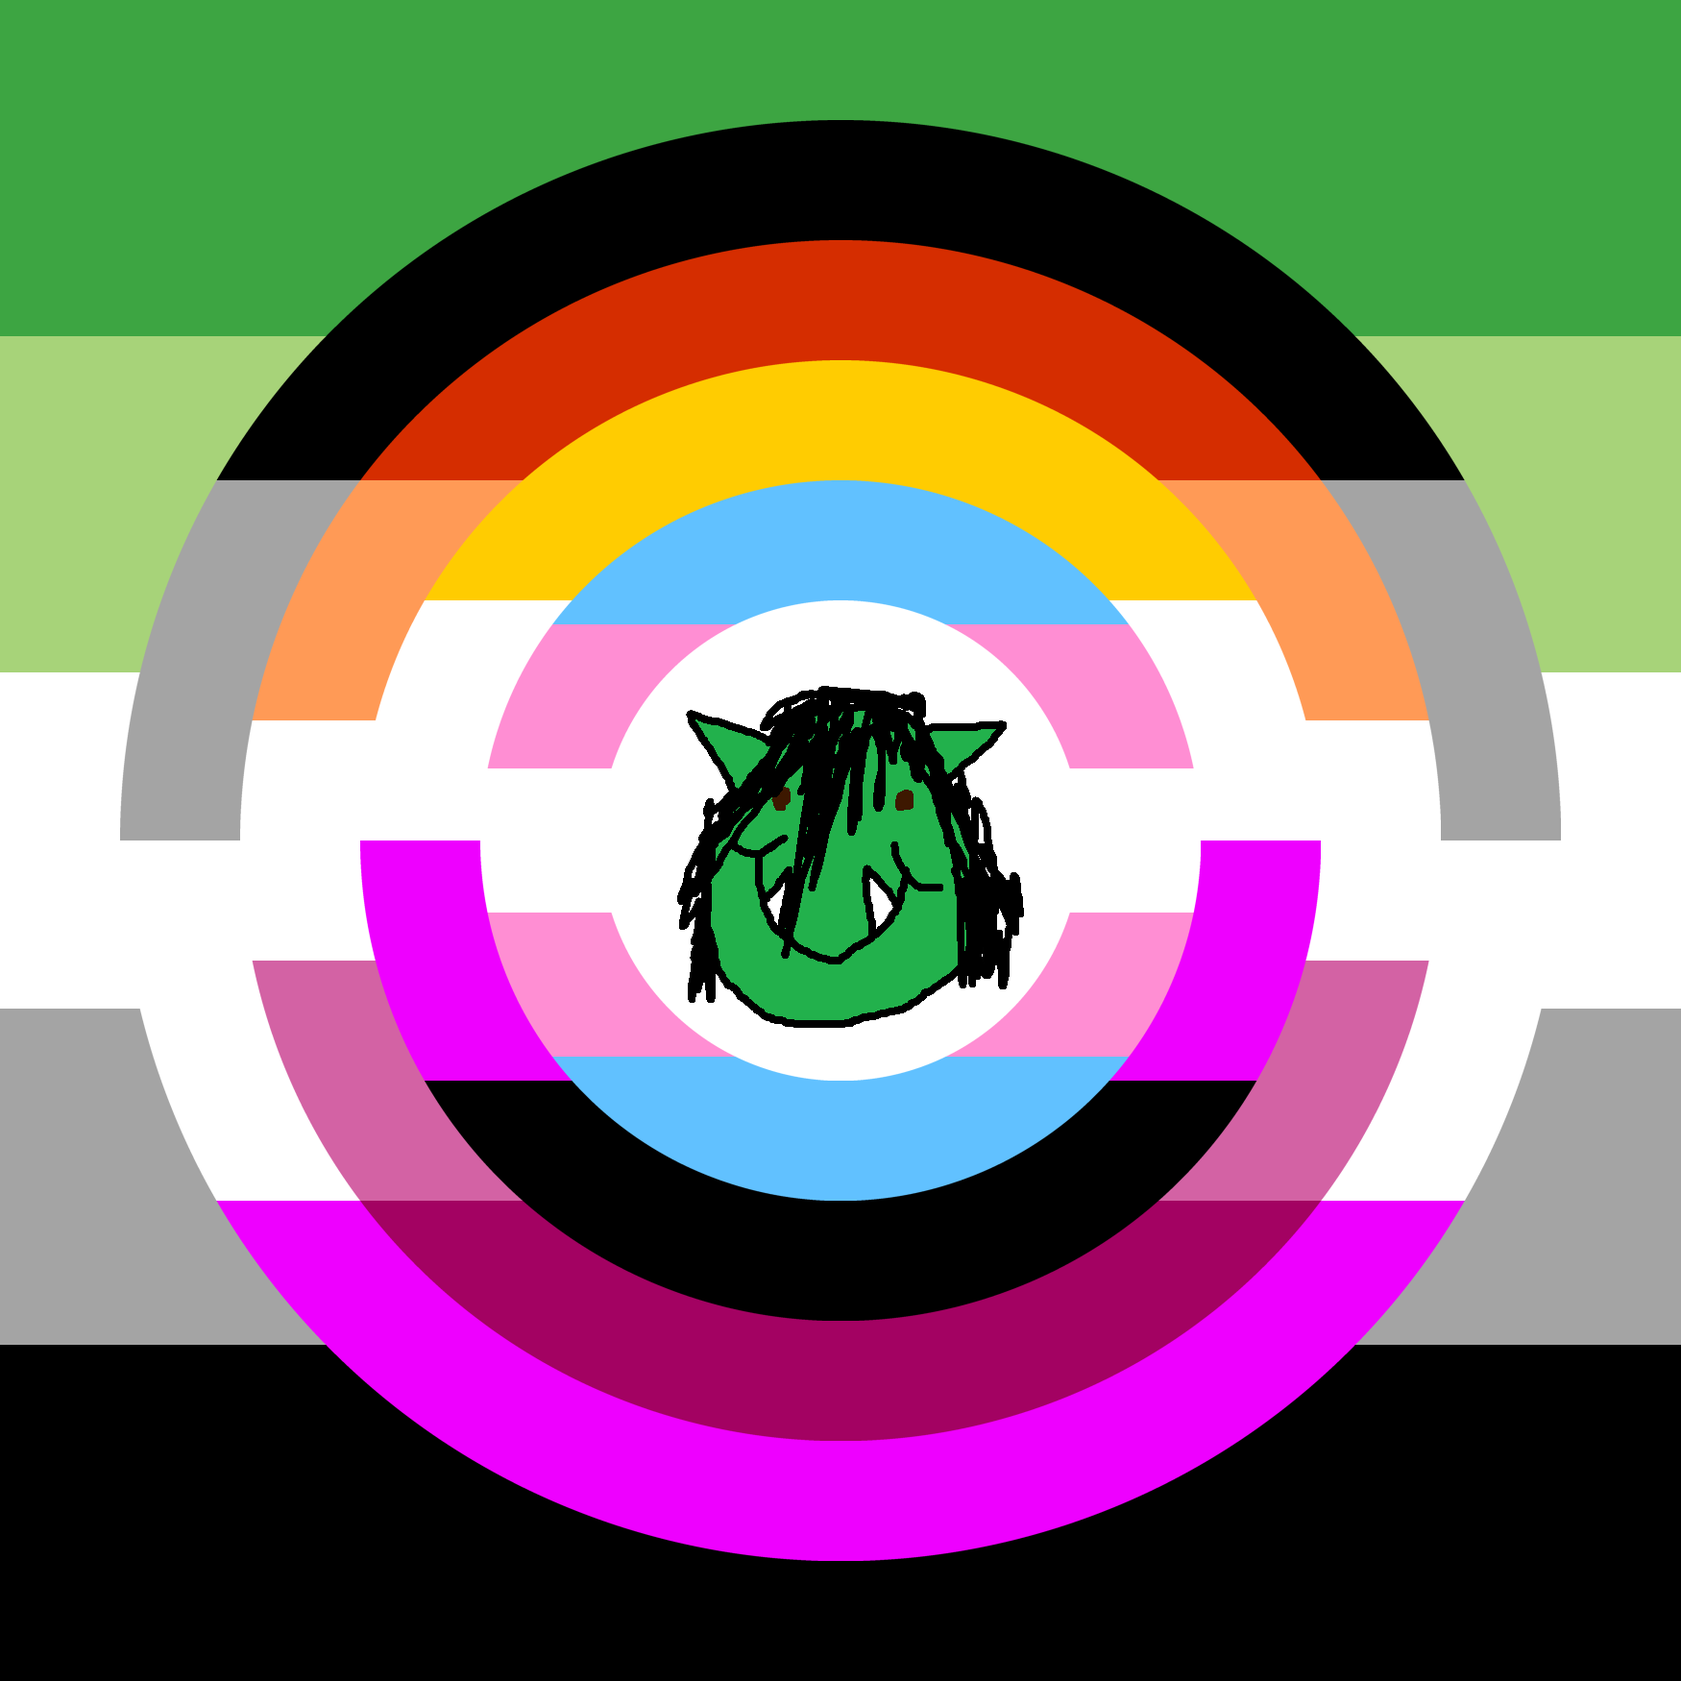
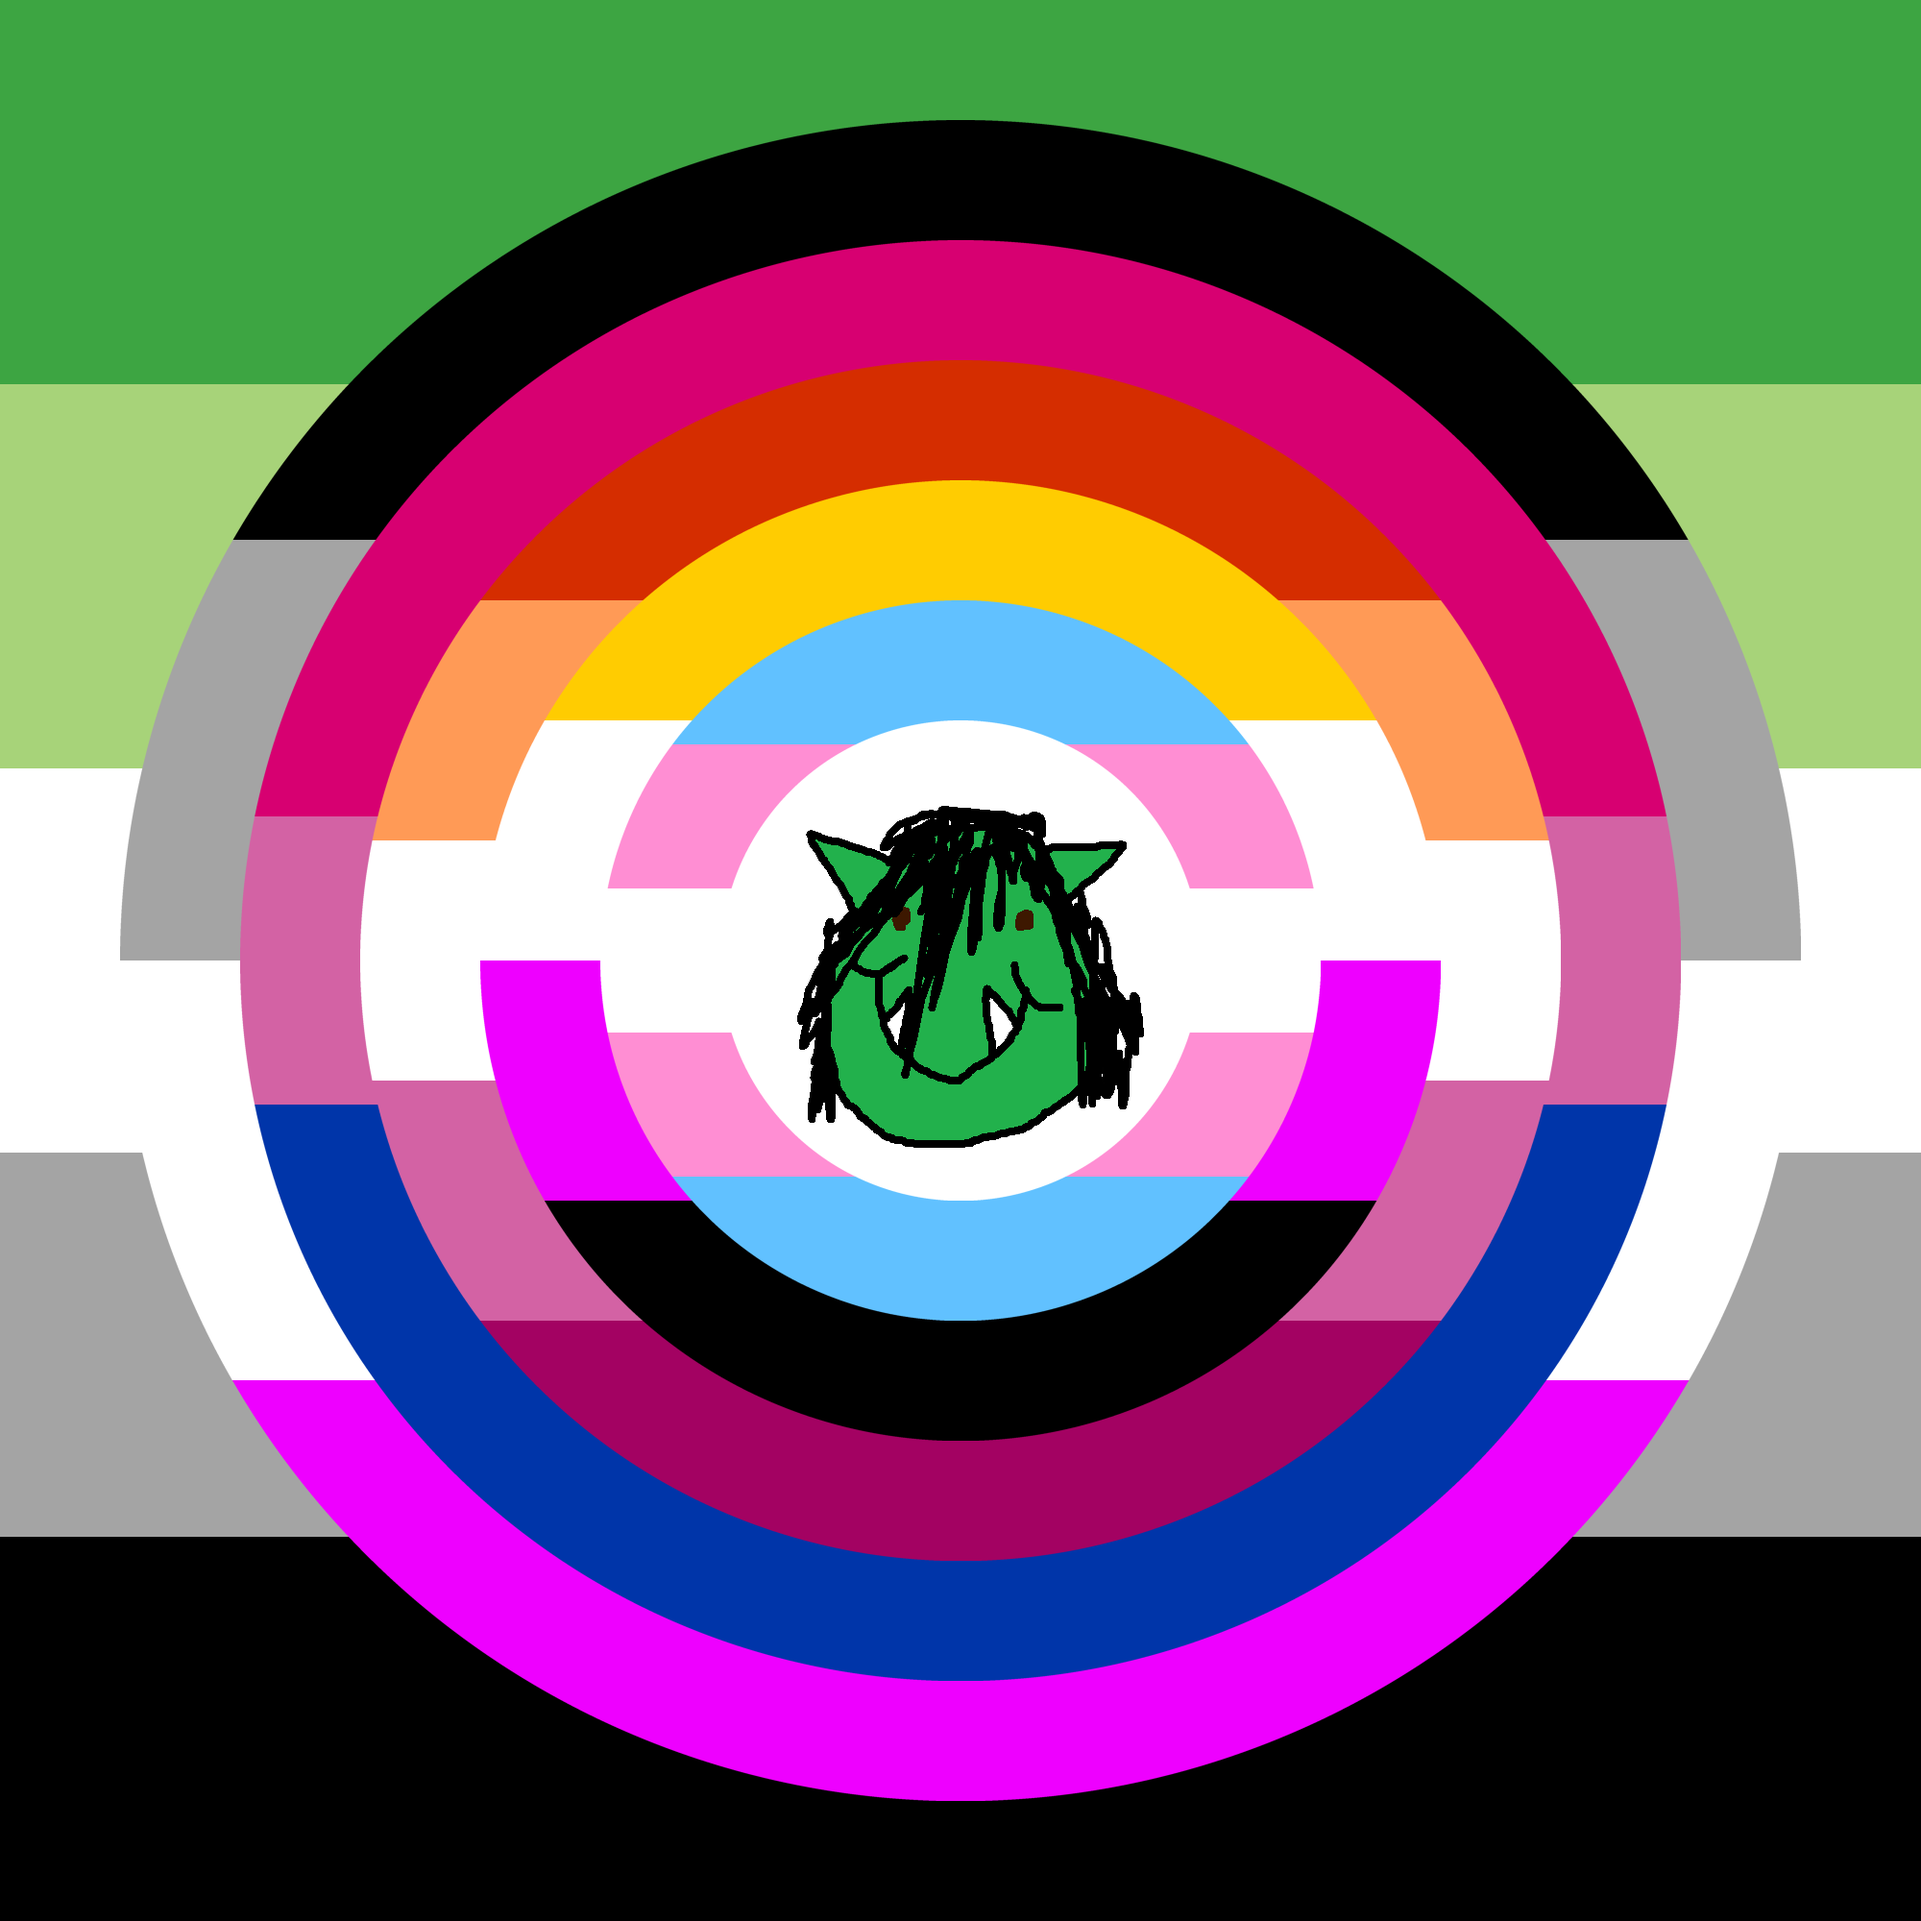
add bi flag

diff --git a/enpridener.py b/enpridener.py
@@ -14,6 +14,10 @@ flags = {
         "type": "hstripe",
         "colors": ['d52d00', 'ff9a56', 'ffffff', 'd362a4', 'a30262']
     }],
+    "bi": [{
+        "type": "hstripe",
+        "colors": ['d70071', 'd70071', 'd362a4', '0035a9', '0035a9']
+    }],
     "ace": [{
         "type": "hstripe",
         "colors": ['000000', 'a4a4a4', 'ffffff', 'ee00ff']
@@ -26,6 +30,7 @@ flags = {
 
 for alias, redirect in {
         "transgender": "trans",
+        "biasexual": "bi",
         "asexual": "ace",
         "aromantic": "aro",
 }.items():

diff --git a/example.py b/example.py
@@ -4,6 +4,7 @@ p = Prider(filepath="icon_in.png", crop=None)
 p.pride("trans", radius=0.5)
 p.pride("nonbinary", radius=0.5)
 p.pride("lesbian", radius=0.5)
+p.pride("bi", radius=0.5)
 p.pride("ace", radius=0.5)
 p.pride("aro", radius=0.5)
 p.save("icon_out.png")
